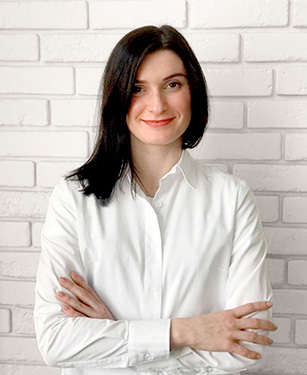
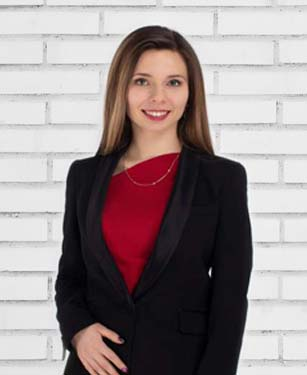
made changes in page About Us

diff --git a/about.html b/about.html
@@ -365,6 +365,15 @@
 				Being in customers' shoes is one of her main approaches.</p>
 		</div>
 		<div class="iconbox ">
+			<img src="./img/leader5.jpg" alt="" class="icon">
+			<span>Julia Helazhys</span>
+			<span>Senior Partnership Manager</span>
+			<p>Julia joined the team years ago. She is now a successful Partnership Manager who contributes to the
+				working process and elevates her professional level periodically.
+				With a good sense of humour and her personal approach, Julia manages her accounts meticulously,
+				resolving complicated cases and establishing long term partnerships.</p>
+		</div>
+		<div class="iconbox ">
 			<img src="./img/leader6.jpg" alt="" class="icon">
 			<span>Anastasiia Rusinova</span>
 			<span>Senior Partnership Manager</span>
